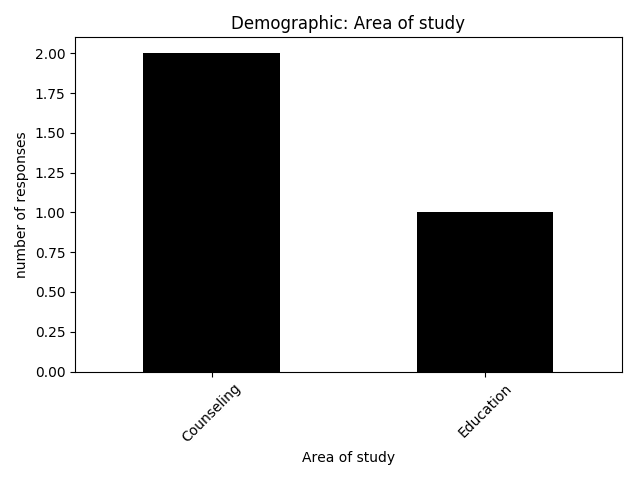
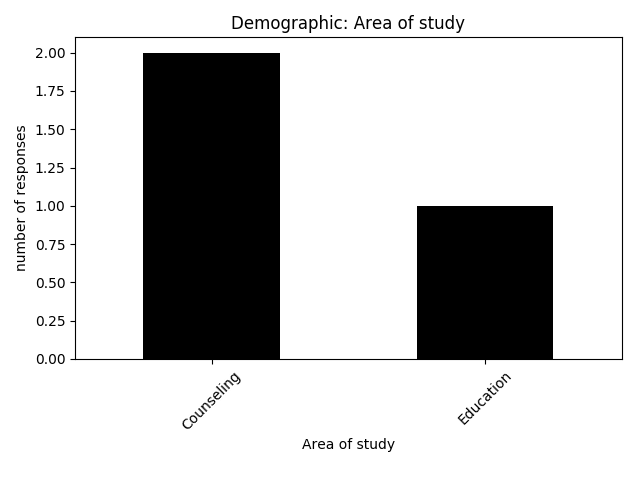
fixed string separators

diff --git a/clean_data.py b/clean_data.py
@@ -44,6 +44,8 @@ def text_to_int(df):
 	df.replace('Usually (61-80%)', 4, inplace=True)
 	df.replace('Almost always (81-100%)', 5, inplace=True)
 
+	df.replace('Performance feedback from another BCBA Supervisor', 'Performance feedback', regex=True, inplace=True)
+
 	return df
 	
 
@@ -191,46 +193,100 @@ def get_question4_data():
 	return q4
 
 
-def separate_text(df):
+def separate_text(df, demographic):
 	''' finds cells with multiple entries and makes new rows for each'''
 
-	# Get the column of interest
-	values = df['Supervision training']
+	print('############################################')
 
-	# Go through each df row
-	for row in range(0, len(values)):
+	
+	# Get the length of the dataframe
+	length = len(df)
 
-		# Slice the column of interest  
-		# get_values = df['Supervision training']
+	# Get the correct column for each demographic
+	if demographic == 'Supervision training':
+		col = 71
 
-		print(values.iloc[row])
+	elif demographic == 'Supervision resources':
+		col = 72
+
+	elif demographic == 'Supervision fieldwork protocol source':
+		col = 73
+
+	# Check the top row of the df of interest 'length' times
+	for row in range(0, length):
+
+        #######################
+		print('Values for the top row:')
+		print(df.iloc[0, col])
+		print('')
+        #######################
+
 		# Separate the strings on the comma
-		split = re.split(',', values.iloc[row])
+		split = re.split(',', df.iloc[0, col])
 
-		# Calculate how many new rows are needed
+		########################################
+		print('Here is the split string:')
+		print(split)
+		print('')
+		########################################
+
+		# Calculate how many new rows need to be appended
 		num = len(split)
 
-		if num == 1:
-			continue
+		# Make a dataframe to hold separated text: new_rows
+		new_rows = pd.DataFrame([df.iloc[0]]*num)
 
-		# Make new rows to hold separated text
-		new_rows = pd.DataFrame([df.iloc[row]]*num)
+		###################################
+		print('Make '+str(num)+' new rows:')
+		print('')
+		###################################
 
 		# Change the values of the new rows to the separated strings
 		for n in range(0,num):
-			print(new_rows.iloc[n, 71])
-			new_rows.iloc[n, 71] = split[n]
+			new_rows.iloc[n, col] = split[n]
+			############################
+			print(new_rows.iloc[n, col])
+			############################
 	
-		#print('NEW ROWS')
-		#print(new_rows.loc[:, 'Supervision training'])
+		# Ignore index just 'pastes' the dataframes together instead of joining on index
+		df = pd.concat([df, new_rows], ignore_index=True)
 
-		# Append new rows to original dataframe
-		new_df = df.append(new_rows, ignore_index=True)
+		print('Here is the first thing:')
+		print(df.iloc[0, 0])
+		print('')
+		#new_df = new_df.reset_index(drop=True)
+		
+		if 'index' in df.columns:
+			df.drop(['index'], inplace=True, axis=1)
 
+		########################################
+		#print('This is the new dataframe:')
+		#print(df)
+		#print('')
+		#print(df.index)
+		########################################
+		print('')
+		print('Here is the appended dataframe:')
+		print(df.iloc[:, col])
+		print('')
+		########################################
+
+		print('I am dropping:')
+		print(df.iloc[0, col])
+		print('')
 		# Drop the original row
-		new_df = new_df.drop(row).reset_index()
+		df = df.drop(0)
+
+		##########################################
+		print('Here is the dropped row dataframe')		
+		print(df.loc[:, demographic])
+		print('')
+		##########################################
 	
-	print(new_df.loc[:, 'Supervision training'])  
+    #################################
+	print('And here is what gets returned...')
+	print(df.loc[:, demographic])
+    #################################  
   
 	return df
 

diff --git a/question_1.py b/question_1.py
@@ -26,25 +26,45 @@ def main():
 	# Drop non-supervisor behaviors
 	dropped = clean_data.drop_bx(metadata)
 
+	print(dropped.loc[:, 'Supervision resources'])
 	# RESEARCH QUESTION 1
-	demographics = question1(dropped)
+	#d_list = clean_data.make_demographics_list()
+	#demographics = question1(dropped, d_list)
+
+	# RESEARCH QUESTION 1 -- Special cases (multiple answers in one cell)
+	d_list_special = ['Supervision training', \
+                      'Supervision resources', \
+                      'Supervision fieldwork protocol source']
+
+	for item in d_list_special:
+		special = clean_data.separate_text(dropped, item)
+		demographics_special = question1(special, [item])
+		del(special)
 
 
-def question1(df):
+
+def question1(df, demo_list):
 	''' answers research question 1'''
 
 	os.chdir('./Q1_graphs')
 
-	demo_list = clean_data.make_demographics_list()
-
 	for demo in demo_list:
 		_ = df[demo].value_counts().plot(kind='bar', colormap='gray')
+		manager = plt.get_current_fig_manager()
+		manager.resize(*manager.window.maxsize())
 		_ = plt.title('Demographic: ' +demo)
 		_ = plt.xlabel(demo)
 		_ = plt.ylabel('number of responses')
+
+		'''
+		if len(demo_list) > 1:
+			_ = plt.tight_layout()
+			_ = plt.xticks(rotation=45)
+		'''
+
 		_ = plt.xticks(rotation=45)
 		_ = plt.tight_layout()
-		_ = plt.savefig(demo+'.png')
+		_ = plt.savefig(demo+'.png', bbox_inches='tight')
 		_ = plt.show()
 		_ = plt.close()
 
